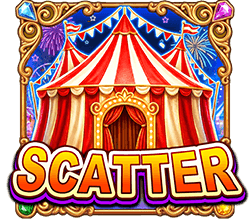
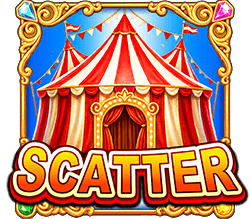
Add files via upload

diff --git a/index.html b/index.html
@@ -393,6 +393,13 @@
             0% { box-shadow: inset 0 0 30px 10px rgba(38, 89, 255, 0.2); } 
             100% { box-shadow: inset 0 0 100px 50px rgba(20, 122, 255, 0.8); } 
         }
+        /* 🌟 修復邊緣 1px 漏光問題 (消除瀏覽器小數點像素運算誤差) */
+        #fg-mask, #fg-end-modal, #info-modal, #setting-modal, #buy-modal {
+            top: -1px !important;
+            left: -1px !important;
+            width: calc(100% + 2px) !important;
+            height: calc(100% + 2px) !important;
+        }
     </style>
 </head>
 <body>
@@ -600,31 +607,31 @@
                     container.innerHTML += html;
                 }
 
-                // 2. SCATTER 免費遊戲
-                let scatterHtml = `<div class="special-rule-block special-fixed-height" style="border-color: #00bfff; background: linear-gradient(90deg, #002244 0%, #001122 100%);">
+                // 2. SCATTER 免費遊戲 (嘉年華帳篷)
+                let scatterHtml = `<div class="special-rule-block special-fixed-height" style="border-color: #ff00ff; background: linear-gradient(90deg, #4B0082 0%, #2e004d 100%);">
                     <div class="special-img"><img src="SCATTER.png"><div class="c-cyan" style="font-size:1.2vh; font-weight:bold; margin-top:2px;">SCATTER</div></div>
-                    <div class="special-text"><div class="rule-title" style="color:#00bfff;">免費遊戲 (Free Game)</div>
-                    <div class="desc-row"><span class="c-white">4 隻 聖甲蟲</span> <span class="c-cyan">15 局</span></div>
-                    <div class="desc-row"><span class="c-white">5 隻 聖甲蟲</span> <span class="c-cyan">15 局 + 額外獎勵</span></div>
-                    <div class="desc-row"><span class="c-yellow">6 隻 聖甲蟲</span> <span class="c-red">15 局 (極限大獎!)</span></div></div></div>`;
+                    <div class="special-text"><div class="rule-title" style="color:#ff00ff;">狂歡免費遊戲 (Free Game)</div>
+                    <div class="desc-row"><span class="c-white">4 個 嘉年華帳篷</span> <span class="c-cyan">15 局</span></div>
+                    <div class="desc-row"><span class="c-white">5 個 嘉年華帳篷</span> <span class="c-cyan">15 局 + 額外獎勵</span></div>
+                    <div class="desc-row"><span class="c-yellow">6 個 嘉年華帳篷</span> <span class="c-red">15 局 (極限大獎!)</span></div></div></div>`;
                 container.innerHTML += scatterHtml;
 
-                // 3. MULTIPLIER 專屬風暴水晶
-                let crystalHtml = `<div class="special-rule-block special-fixed-height" style="border-color: #00ffff; background: linear-gradient(90deg, #001a33 0%, #000a1a 100%);">
-                    <div class="special-img"><img src="x100.png" style="filter: drop-shadow(0 0 5px cyan);"><div class="c-cyan" style="font-size:1.2vh; font-weight:bold; margin-top:2px;">風暴水晶</div></div>
-                    <div class="special-text"><div class="rule-title" style="color:#00ffff;">風暴水晶 (Multiplier)</div>
-                    <div class="desc-row"><span class="c-gray">隨機掉落</span> <span>可獲得 <span class="c-cyan">x2</span> 到 <span class="c-red">x500</span> 倍</span></div>
-                    <div class="desc-row"><span class="c-gray">免費遊戲內</span> <span>參與爆分的倍數將被<span class="c-yellow">永久累積</span>!</span></div>
-                    <div style="font-size:1.1vh; color:#999; margin-top:3px; font-style:italic; text-align:right;">*累積倍數將乘算當局總贏分</div></div></div>`;
-                container.innerHTML += crystalHtml;
+                // 3. HOLD & WIN 鎖定重轉 (替換掉原本的埃及水晶，改為金幣說明)
+                let coinHtml = `<div class="special-rule-block special-fixed-height" style="border-color: #ffd700; background: linear-gradient(90deg, #4d3300 0%, #261a00 100%);">
+                    <div class="special-img"><img src="gold.png" style="filter: drop-shadow(0 0 5px gold);"><div class="c-yellow" style="font-size:1.2vh; font-weight:bold; margin-top:2px;">閃耀金幣</div></div>
+                    <div class="special-text"><div class="rule-title" style="color:#ffd700;">嘉年華重轉 (Hold & Win)</div>
+                    <div class="desc-row"><span class="c-gray">觸發條件</span> <span>畫面上出現 <span class="c-yellow">6 顆以上金幣</span> 即可進入</span></div>
+                    <div class="desc-row"><span class="c-gray">鎖定重轉</span> <span>獲得 3 次重轉，有新金幣掉落即重置次數</span></div>
+                    <div class="desc-row"><span class="c-gray">滿盤大獎</span> <span>15 格全滿直接贏得 <span class="c-red">GRAND 終極彩金</span>!</span></div></div></div>`;
+                container.innerHTML += coinHtml;
                 
-                // 4. 遊戲規則底部文字 (全盤消除 Pay Anywhere)
+                // 4. 遊戲規則底部文字 (更新為嘉年華 20 線與雙特色規則)
                 let rulesHtml = `<div class="special-rule-block" style="display:block; background:rgba(0,0,0,0.5); border:1px solid #aaa; margin-top:15px; padding:10px;">
                     <div class="info-title" style="font-size:2.2vh; margin-bottom:10px; color:#7cfc00;">★ 遊戲規則 ★</div>
                     <div style="font-size:1.4vh; line-height:1.6; color:#fff; text-align:left;">
-                        <div style="margin-bottom:8px; border-left: 4px solid #00ffff; padding-left:8px;"><strong>全盤消除 (Pay Anywhere):</strong> 畫面上任意位置出現 8 個以上相同符號即可中獎並觸發消除掉落。<br><span style="color: #aaa; font-size: 1.4vh;">(不須由左至右相鄰，數量越多贏分越高！)</span></div>
-                        <div style="margin-bottom:8px; border-left: 4px solid #00ffff; padding-left:8px;"><strong>特殊倍數:</strong> 風暴水晶會隨機掉落，並與當局所有贏分相乘。多顆風暴水晶倍數會相加計算。</div>
-                        <div style="margin-bottom:8px; border-left: 4px solid #00ffff; padding-left:8px;"><strong>免費遊戲:</strong> 4個以上 SCATTER 觸發15局免費遊戲，免費遊戲期間參與中獎的水晶倍數將被永久收集，並應用於後續的贏分！</div>
+                        <div style="margin-bottom:8px; border-left: 4px solid #ff00ff; padding-left:8px;"><strong>賠付線連線 (Paylines):</strong> 遊戲共有 20 條固定賠付線。一般符號必須從最左側轉輪開始，由左至右連續出現才能獲得贏分。</div>
+                        <div style="margin-bottom:8px; border-left: 4px solid #ff00ff; padding-left:8px;"><strong>狂歡免費遊戲:</strong> 畫面上任意位置出現 4 個以上的「嘉年華帳篷」即可觸發 15 局免費遊戲。</div>
+                        <div style="margin-bottom:8px; border-left: 4px solid #ffd700; padding-left:8px;"><strong>嘉年華重轉 (Hold & Win):</strong> 畫面上出現 6 顆以上的「閃耀金幣」即觸發鎖定重轉。重轉期間只有金幣會掉落，集滿 15 顆金幣直接獲得 GRAND 終極彩金！</div>
                     </div></div>`;
                 container.innerHTML += rulesHtml;
             },
